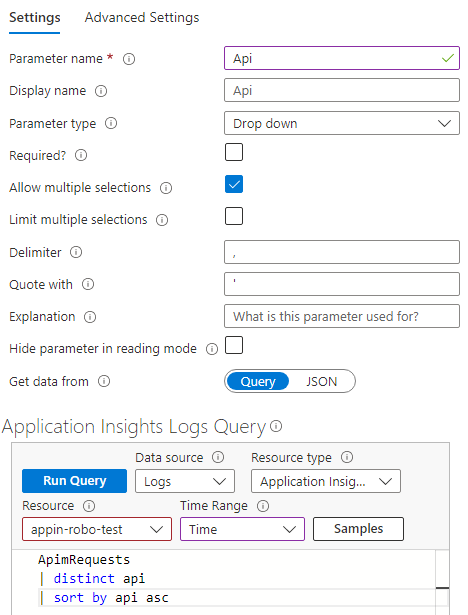
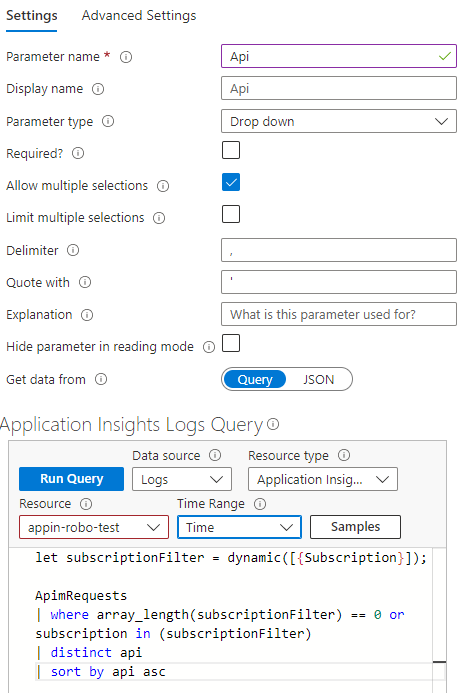
Small refactorings

diff --git a/content/blog/azure-workbook-tips-and-tricks/index.md b/content/blog/azure-workbook-tips-and-tricks/index.md
@@ -10,7 +10,7 @@ summary: "foo"
 
 If you use Azure, you most likely use Application Insights for logging. You can use a [Dashboard](https://learn.microsoft.com/en-us/azure/azure-monitor/visualize/tutorial-logs-dashboards) to visualize your logging and gain better insights, but dashboards come with some limitations. For instance, you can't add your own custom parameters to filter data. For these situations Azure has [Workbooks](https://learn.microsoft.com/en-us/azure/azure-monitor/visualize/workbooks-overview).
 
-In this blog post I'll share some tips & tricks that I've gathered over the years. As a sample we'll create a workbook that shows information about requests send to an API Management instance.
+In this blog post I'll share some tips & tricks that I've gathered over the years. As a sample, we'll create a workbook that shows information about requests send to an API Management instance.
 
 - [Construct a query](#construct-a-query)
 - [Create reusable query](#create-reusable-query)
@@ -64,19 +64,21 @@ At the left of the Logs screen you can see which tables you can query and the co
 
 ![Requests Table Properties](../../../../../images/azure-workbook-tips-and-tricks/requests-table-properties.png)
 
-The `timestamp` property is a property we can directly use on our queries because it's a column of the `requests` table. The `Service ID` and `API Name` are not default columns in the requests table because they are specific to API Management. These are stored in the `customDimensions` property and can be accessed with the syntax `customDimensions["Service ID"]` and `customDimensions["API Name"]`. When you specify custom properties to log from your application, you'll find them in this `customDimensions` property.
+The `timestamp` property is a property we can directly use in our queries because it's a column of the `requests` table. The `Service ID` and `API Name` are not default columns in the requests table because they are specific to API Management. These are stored in the `customDimensions` property and can be accessed with the syntax `customDimensions["Service ID"]` and `customDimensions["API Name"]`. 
+
+When you specify custom properties to log from your application, you'll find them in this `customDimensions` property.
 
 ### Create reusable query
 
-In our workbook we'll be reusing the same query in different places, so we're going to make a function.
+We'll be reusing the same query in different parts of our workbook, so we're going to make a function.
 
-First we'll cleanup the generated query and only select the columns we're interested in.
+First we'll cleanup the generated query.
 
 - The `union isfuzzy=true` part is useful when quering multiple even types. Because we're only querying requests we can remove it.
 - The query screen provides a 'Time range' pill that can be used to specify a time range to filter on. We will provide a similar filter on our workbook. So the where clause on `timestamp` can be removed.
 - We'll only query on a single API Management instance, so the 'in' filter can become an 'equals'.
-- We'll be adding the filter on the API name in our workbook. So we can remove it for now.
-- We add a projection so we only show specific columns. The custom dimensions are by default dynamic, so we convert them to a string.
+- We'll be adding the filter on API name in our workbook. So we can remove it for now.
+- We extend the results with specific properties for the custom dimensions we're interested in. We also convert them to strings, so they're easier to work with.
 - Lastly, we can remove the `| take 100` to show more columns.
 
 The result should look like the following query.
@@ -84,26 +86,22 @@ The result should look like the following query.
 ```kusto
 requests
 | where customDimensions["Service ID"] == "apim-robo-test"
-| project timestamp
-    , subscription = tostring(customDimensions["Subscription Name"])
+| extend subscription = tostring(customDimensions["Subscription Name"])
     , api = tostring(customDimensions["API Name"])
-    , name
-    , success
-    , resultCode
-    , duration
-    , itemId
     , sessionCorrelationId = tostring(customDimensions["Request-Session-Correlation-Id"])
 ```
 
-Note the custom dimension `Request-Session-Correlation-Id`. I've configured my API Management instance to log the header `Session-Correlation-Id` with every request so I can correlate all requests from a specific session. We'll use it when creating a master detail table.
+Note the custom dimension `Request-Session-Correlation-Id`. I've configured my API Management instance to log the header `Session-Correlation-Id` with every request so I can correlate all requests from a specific session. We'll use it when creating a master-detail table.
 
 To save the query as a function, choose 'Save > Save as function' and give it a name like 'ApimRequests'. You can then use it in a query like this:
 
 ![Query Results](../../../../../images/azure-workbook-tips-and-tricks/query-results.png)
 
+Because we've extended the results in the function with `api`, we don't need to use the `customDimensions` array in our query.
+
 ### Create Workbook
 
-Now that we have our query, we can start creating our workbook. Open your Application Insights instance and go to Workbooks. As you can see, Azure already provides several workbooks that you can use and customize. We'll start from scratch, so click on Empty _(A completely empty workook)_.
+Now that we have our query, we can start creating our workbook. Open your Application Insights instance and go to Workbooks. As you can see, Azure already provides several workbooks that you can use and customize. We'll start from scratch, so click on Empty _(A completely empty workbook)_.
 
 When you click on Add, you'll see that we can add different items to the workbook. We'll focus on parameters and queries in this workbook.
 
@@ -125,11 +123,11 @@ Click Save to add the parameter.
 
 #### Subscription Parameter (drop down from logs)
 
-When calling API Management, we need to use a subscription for authentication. I want to be able filter on this subscription so we can see who performed which requests.
+When calling API Management, we need to use a subscription for authentication. I want to be able filter on this subscription to see who performed which requests.
 
 Click on the 'Add Parameter' button. Enter the parameter name 'Subscription', select 'Drop down' as the parameter type, check the 'Allow multiple selections' box and select 'Query' as the source of the data.
 
-Enter the following query. We're using the function that we've created in a previous step.
+Enter the following query. We're using the function that we've created earlier.
 
 ```kusto
 ApimRequests
@@ -153,17 +151,24 @@ Click Save to add the parameter.
 
 #### Api Parameter (drop down from logs)
 
-As mentioned before, we also want to filter on the API that was called.
+As mentioned before, we also want to filter on the API that was called. As an added requirement, I want to filter the API's based on the selected subscription(s) from Subscription parameter.
 
 Click on the 'Add Parameter' button. Enter the parameter name 'Api', select 'Drop down' as the parameter type, check the 'Allow multiple selections' box and select 'Query' as the source of the data.
 
 Enter the following query and select Time as the Time Range.
 
 ```kusto
+let subscriptionFilter = dynamic([{Subscription}]);
+
 ApimRequests
+| where array_length(subscriptionFilter) == 0 or subscription in (subscriptionFilter)
 | distinct api
 | sort by api asc
 ```
+
+As you can see, the query is bit more complicated.
+- The `let subscriptionFilter = dynamic([{Subscription}]);` line will create an array of selected subscriptions based on the Subscription parameter. If no subscription was selected, the array is empty.
+- The filter `| where array_length(subscriptionFilter) == 0 or subscription in (subscriptionFilter)` will show all apis if no subscription was selected or apis with requests that have a matching subscription if one or more are selected.
 
 The New Parameter screen should look like this.
 
@@ -201,7 +206,7 @@ Now that we've added our parameters, click the 'Done Editing' button in the 'Edi
 
 The next step is to add a table that shows the requests. Choose 'Add > Add query'.
 
-To filter the results in the table based on the selected time range of the previously created Time parameter, we can select the Time parameter in the Time Range drop down. And with Grid as the Visualization, the results will be shown as a table.
+To filter the results in the table based on the selected time range of the previously created Time parameter, we can select the Time parameter in the Time Range drop down. Set the Visualization to Grid to display the results as a table.
 
 ![Grid Time Range and Visualization](../../../../../images/azure-workbook-tips-and-tricks/grid-time-range-and-visualization.png)
 
@@ -229,13 +234,13 @@ ApimRequests
 | order by timestamp desc
 ```
 
-The `let subscriptionFilter = dynamic([{Subscription}]);` line will create an array of selected subscriptions based on the Subscription parameter. If no subscription was selected, the array is empty. The filter `| where array_length(subscriptionFilter) == 0 or subscription in (subscriptionFilter)` will show all requests if no subscription was selected or that have a matching subscription if one or more were selected.
+The subscription and api filters are similar to the one in the query of the Api parameter.
 
 The Success parameter was not multiselect, so `let successFilter = '{Success}';` will be empty if nothing is selected, `true` if yes is selected and `false` if no is selected. With the filter `| where isempty(successFilter) or success == tobool(successFilter)` we either show all request or the requests that were (un)successful.
 
 The `itemId` is displayed twice in both the `details` and `transaction` column. We'll use these further on to create links to the request details.
 
-The query is executed when you click the Run Query button. You can now also filter the data by changing the values of the parameters. For example, select no in the Success parameter to show all failed requests.
+The query is executed when you click the Run Query button. You can filter the data by changing the values of the parameters. For example, select no in the Success parameter to show all failed requests.
 
 In the Advanced Settings tab you can configure more settings. I've set the chart title to 'Requests'. I also liked to check the 'Show filter field above grid or tiles' box. This will show a filter input field above the table that can be used to further filter the results as shown below.
 
@@ -248,16 +253,18 @@ When you click the 'Column Settings' on the Settings tab you can customize the w
 To show more information about a request, we can change the details column to show a link that opens the request details to the side.
 
 Follow these steps:
-- Click on the Column Settings button and select the details column
-- Select Link in the Column renderer drop down
-- Enter '11ch' as the Custom Column Width
-- Select Request Details in the View to open drop down
-- Enter 'details' as the Link label
+- Click on the 'Column Settings' button and select the details column
+- Select Link in the 'Column renderer' drop down
+- Enter '11ch' as the 'Custom Column Width'
+- Select 'Request Details' in the 'View to open' drop down
+- Enter 'details' as the 'Link label'
 - Check the 'Open link in Context pane' box
 
 ![Table Column Details](../../../../../images/azure-workbook-tips-and-tricks/table-column-details.png)
 
-Choose Save and Close to see the results. When you click on a details link, a context pane opens on the right of the screen showing the request properties. See the example below.
+Choose 'Save and Close' to see the results.
+
+When you click on a details link, a context pane opens on the right of the screen showing the request properties. See the example below.
 
 ![Request Details](../../../../../images/azure-workbook-tips-and-tricks/request-details.png)
 
@@ -266,16 +273,18 @@ Choose Save and Close to see the results. When you click on a details link, a co
 To show the end-to-end transaction details of a request, we can change the transaction column to show a link that opens the end-to-end-transaction details.
 
 Follow these steps:
-- Click on the Column Settings button and select the transaction column
-- Select Link in the Column renderer drop down
-- Enter '15ch' as the Custom Column Width
-- Select Request Details in the View to open drop down
-- Enter 'transaction' as the Link label
+- Click on the 'Column Settings' button and select the transaction column
+- Select Link in the 'Column renderer' drop down
+- Enter '15ch' as the 'Custom Column Width'
+- Select 'Request Details' in the 'View to open' drop down
+- Enter 'transaction' as the 'Link label'
 - Keep the 'Open link in Context pane' unchecked
 
 ![Table Column Transaction](../../../../../images/azure-workbook-tips-and-tricks/table-column-transaction.png)
 
-Choose Save and Close to see the results. When you click on a transaction link, the end-to-end transaction screen is shown. See the example below.
+Choose 'Save and Close' to see the results.
+
+When you click on a transaction link, the end-to-end transaction screen is shown. See the example below.
 
 ![End-to-end Transaction Details](../../../../../images/azure-workbook-tips-and-tricks/end-to-end-transaction-details.png)
 
@@ -299,7 +308,7 @@ ApimRequests
     by api
 ```
 
-This query groups the results by api and counts all requests, all failed requests and all requests with result code >= 500. To clarify what the different numbers are, I add a bit of text to the results.
+This query groups the results by api and counts all requests, all failed requests and all requests with result code >= 500. To clarify what the different numbers are, I've included a bit of text in the results.
 
 If you run the query, you'll notice that it doesn't quite look the same as the example above. We need to customize the tile.
 
@@ -313,7 +322,7 @@ The Tile Settings screen should look like this.
 
 ![Tiles Settings](../../../../../images/azure-workbook-tips-and-tricks/tiles-settings.png)
 
-Choose Save and Close.
+Choose 'Save and Close'.
 
 We can add a title to the chart to clarify what is displayed. Go to Advanced Settings and set the chart title to `Total # of errors per API (status code >=500)`.
 
@@ -330,7 +339,7 @@ As an example, we'll create a master-detail table. When a request in the master 
 
 #### Export Selection from Master Table
 
-To start Edit the current Requests table. Go to Advanced Settings and check the 'When items are selected, export parameters' box.
+To start, Edit the current Requests table. Go to Advanced Settings and check the 'When items are selected, export parameters' box.
 
 Clik on Add parameter. Enter sessionCorrelationId as the Field to Export. Enter SelectedSessionCorrelationId as the Parameter name.
 
